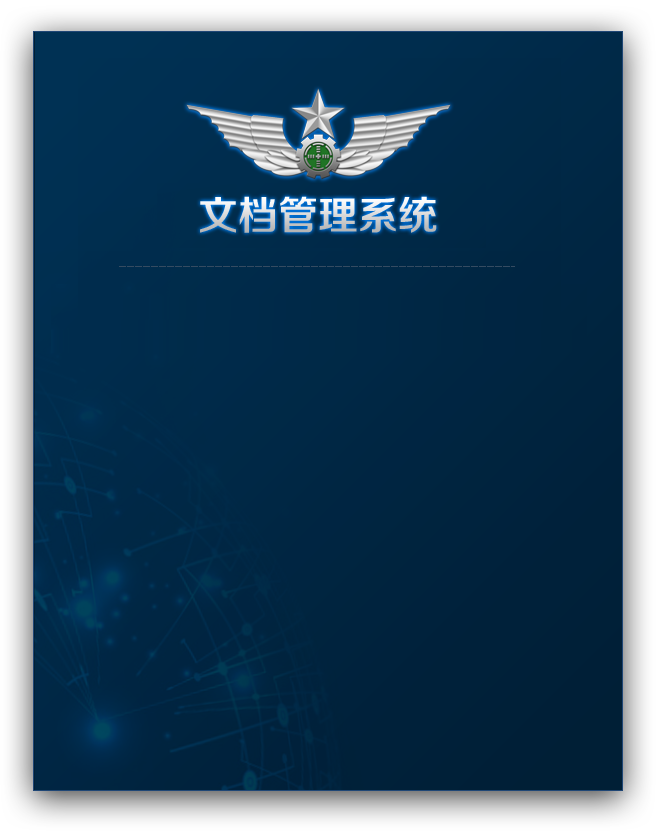
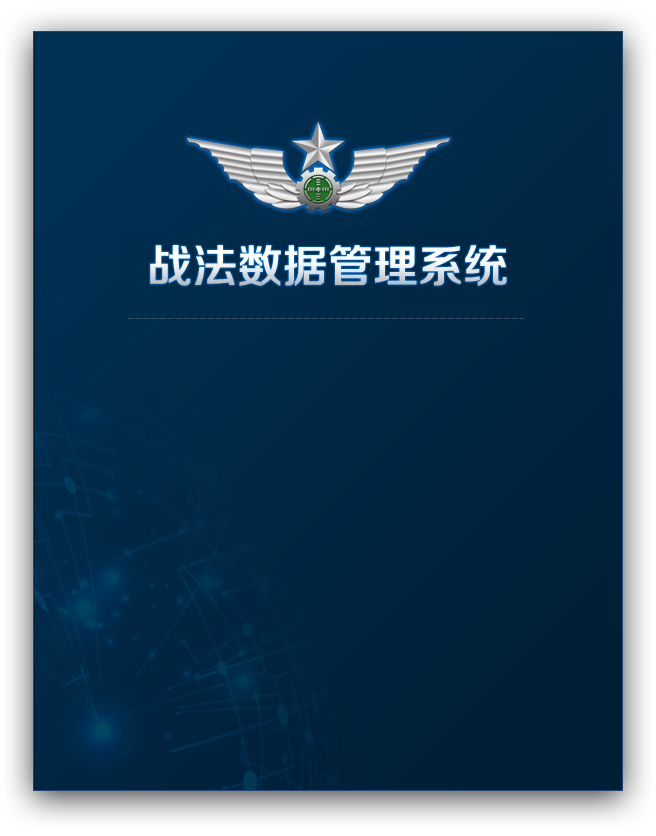
m

Changed region(s): [[0.2134, 0.0933, 0.7927, 0.3421]]

diff --git a/phoibe-doc-cms-web/src/main/resources/templates/css/management.css b/phoibe-doc-cms-web/src/main/resources/templates/css/management.css
@@ -221,9 +221,9 @@ body, html {
 	text-align: left;
 	padding-left:10px;
 	color: #fff;*/
-	width: 288px;
+	width: 296px;
 	margin-left: 8px;
-	margin-top: 12px;
+	margin-top: 8px;
 	height: 40px;
 	background-image: url("../images/logo_text.png");
 }
